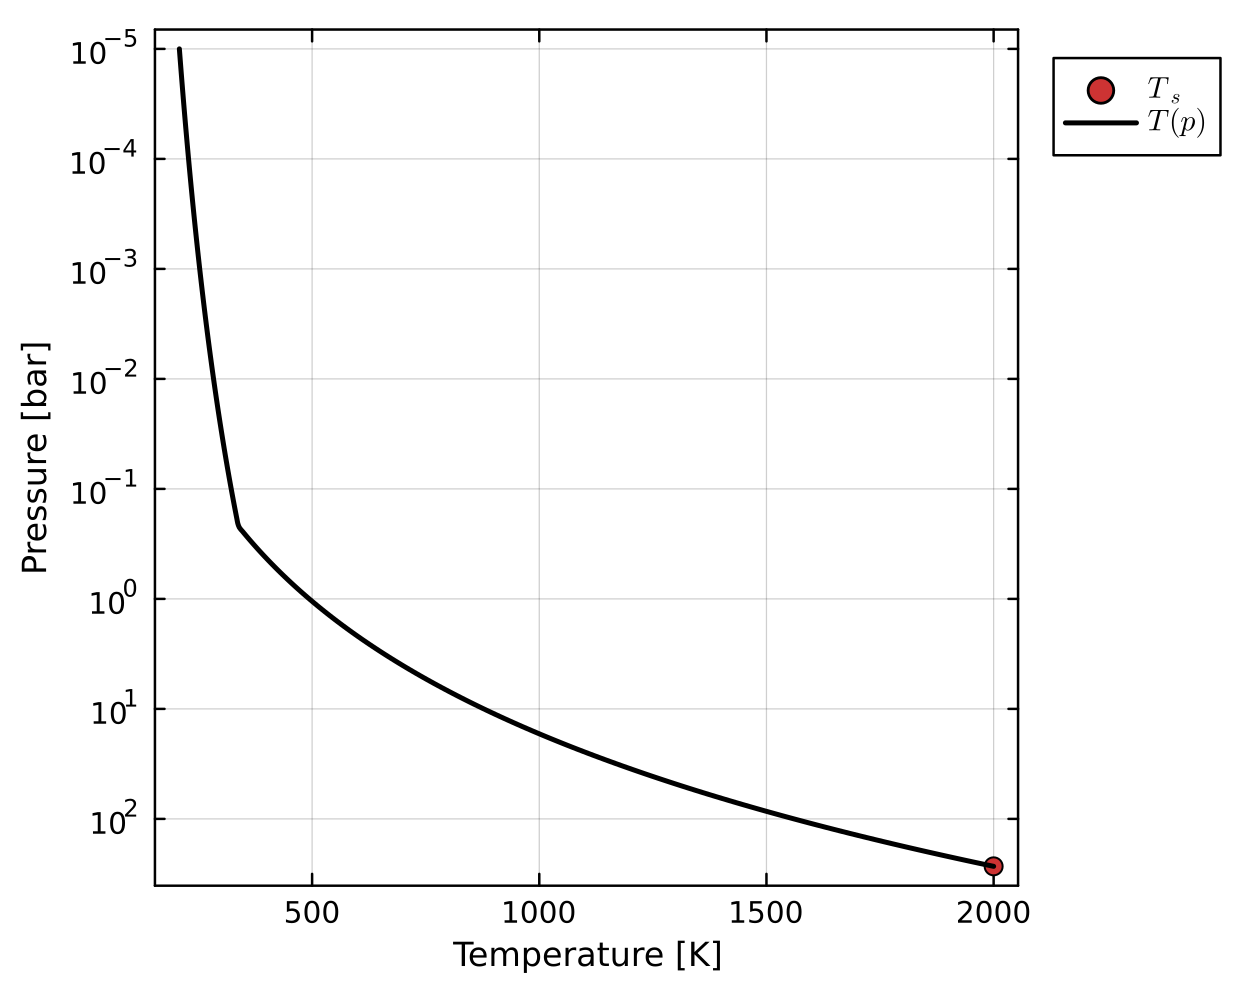
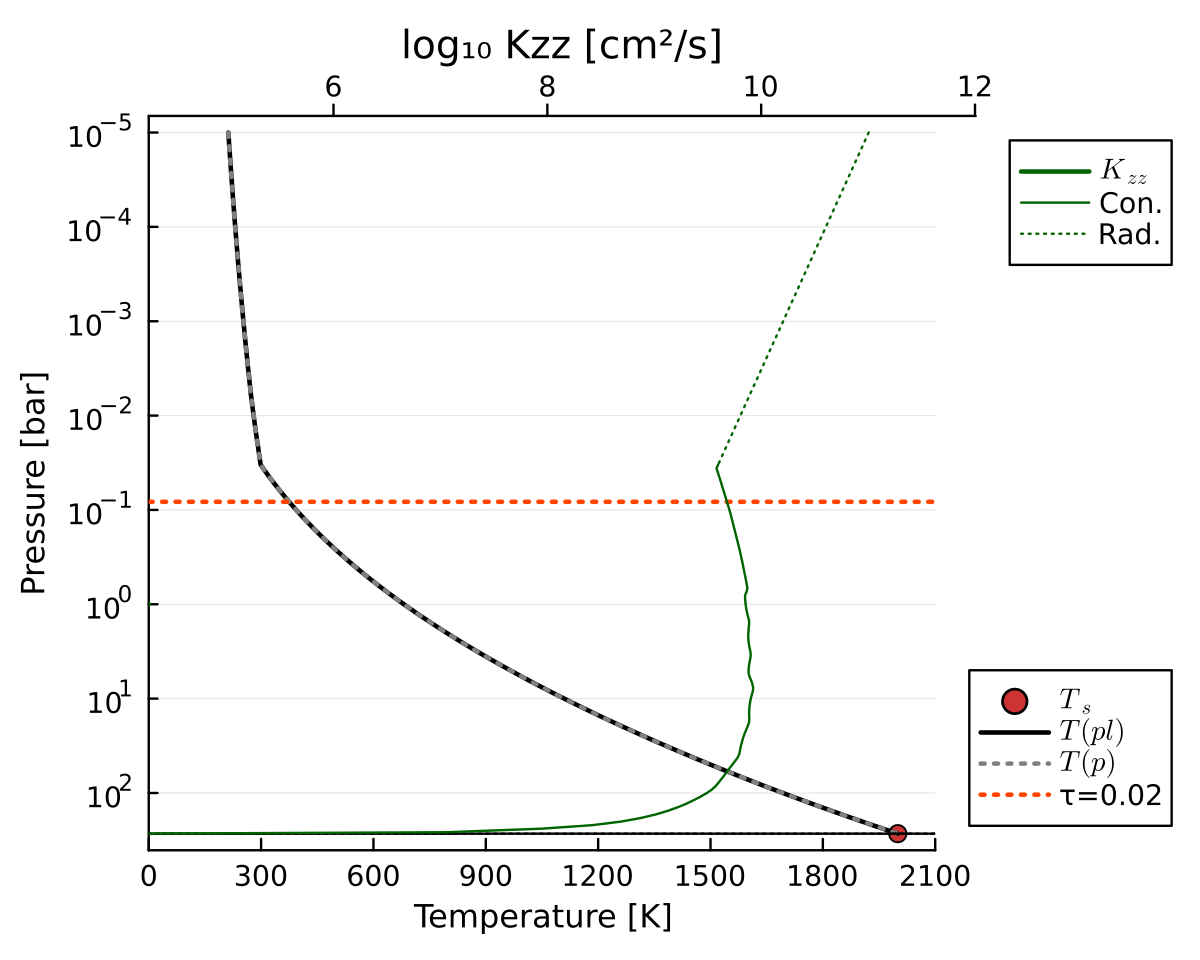
Set default ref_tau=0.02 and fix indexing errors for GG radtrans. Version 1.10.4 and update actions permissions. Update tutorial plots. Update units and syntax in CLI wrapper.

diff --git a/docs/src/tutorials/index.md b/docs/src/tutorials/index.md
@@ -28,9 +28,11 @@ You should see the following output:
 [ INFO  ] Solving with 'none'
 [ INFO  ]     done
 [ INFO  ] Radiative transfer benchmarking statistics...
-[ INFO  ]     total RT evals:  2
-[ INFO  ]     cumulative time: 0.437389641 secs
-[ INFO  ]     time per eval:   218.6948205 ms
+[ INFO  ]     total evals:   2, over 0.449157808 secs
+[ INFO  ]     time per eval: 224.578904 ms
+[ INFO  ] Photosphere defined at τ=0.02 and λ=1.00 μm
+[ INFO  ]     pressure: 82.00 mbar, temperature: 370.84 K
+[ INFO  ]     planet density: 4.46e+03 kg/m^3, radius: 1.07 R⊕
 [ INFO  ] Writing results
 [ INFO  ] Plotting results
 [ INFO  ] Model runtime: 18.63 seconds
@@ -200,7 +202,7 @@ From this, we get a lot of output. These include all the spectral fluxes, gas pr
 :date = "2026-May-25 07:41:21" ;
 :hostname = "your_computer_name" ;
 :username = "your_username" ;
-:AGNI_version = "1.10.3" ;
+:AGNI_version = "1.10.4" ;
 :SOCRATES_version = "2603.7" ;
 :SOCRATES_precision = "double" ;
 :name = "41a2d25b" ;